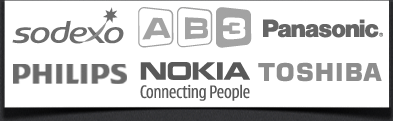
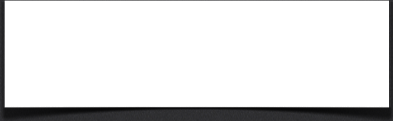
Displaying partners in the footer

diff --git a/public/stylesheets/style.css b/public/stylesheets/style.css
@@ -2420,6 +2420,19 @@ div.top10.first p a {
   float: left;
 }
 
+#subfooter #partners #partners-box {
+  background: url(../images/partners.png) 0 0 no-repeat;
+  width: 393px;
+  height: 121px;
+  padding: 1px 4px;
+}
+
+#subfooter #partners #partners-box img {
+  float:left;
+  width: 128px;
+  height: 53px;
+}
+
 #subfooter #copyr {
   clear: both;
   color: white;

diff --git a/app/helpers/application_helper.rb b/app/helpers/application_helper.rb
@@ -42,6 +42,10 @@ module ApplicationHelper
     @messages_size = (current_customer.messages.not_read.count || 0) if current_customer
   end
 
+  def load_partners
+    @partners = Partner.all(:limit => 6)
+  end
+
   def oauth_client
     params = OAUTH.clone
     client_id = params.delete(:client_id)

diff --git a/app/controllers/application_controller.rb b/app/controllers/application_controller.rb
@@ -14,6 +14,7 @@ class ApplicationController < ActionController::Base
   before_filter :wishlist_size
   before_filter :delegate_locale
   before_filter :messages_size
+  before_filter :load_partners
 
   # Scrub sensitive parameters from your log
   # filter_parameter_logging :password
